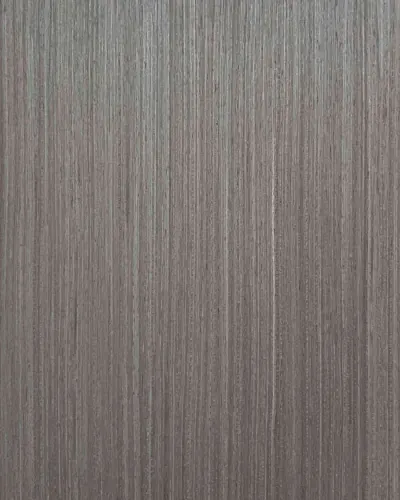
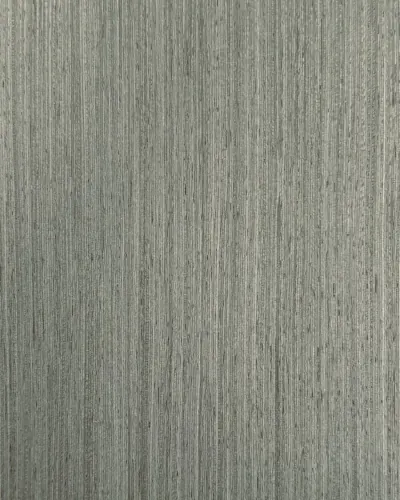
Replace the Berlin Lava Oak swatch with a new photograph
The new sheet shows the fine, straight grey grain. The photograph was
close to square, so it is cropped from the centre to the 4:5 the other
swatches use; the grain was checked and runs true to vertical. The
address carries ?v=2 so browsers drop the old picture.

diff --git a/src/data.js b/src/data.js
@@ -1284,7 +1284,7 @@ export const PRODUCTS = [
     tones: ['cool'],
     species: 'White Oak (Quercus alba)',
     idSpecies: 'Oak Putih (Quercus alba)',
-    image: '/assets/image/BERLIN LAVA OAK.webp',
+    image: '/assets/image/BERLIN LAVA OAK.webp?v=2',
     bestFor: 'Transitional millwork, custom built-ins, subtle commercial interiors',
     idBestFor: 'pengerjaan kayu transisional, perabot tanam custom, interior komersial halus',
     finish: 'Matte varnish',
